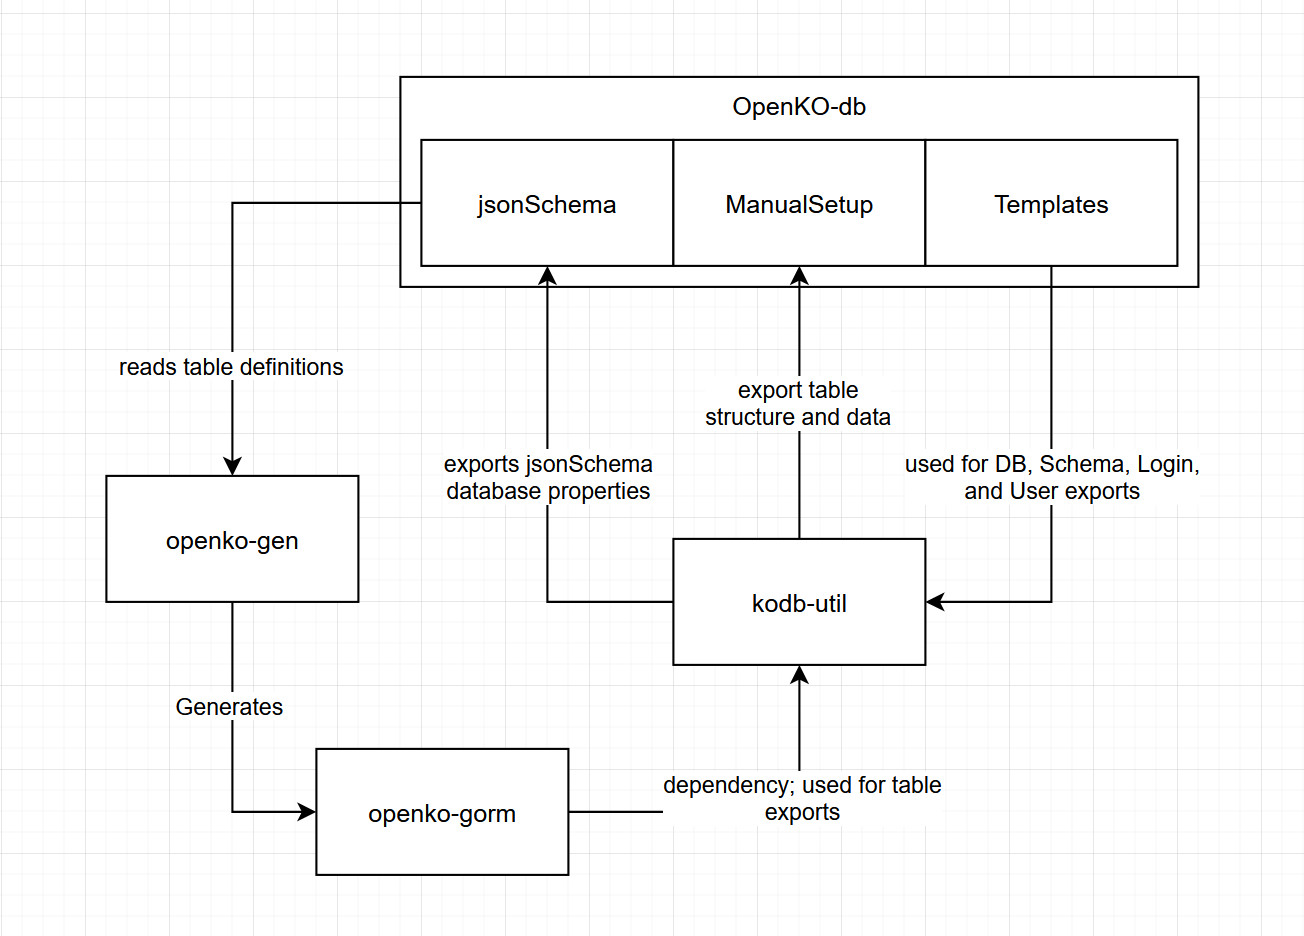
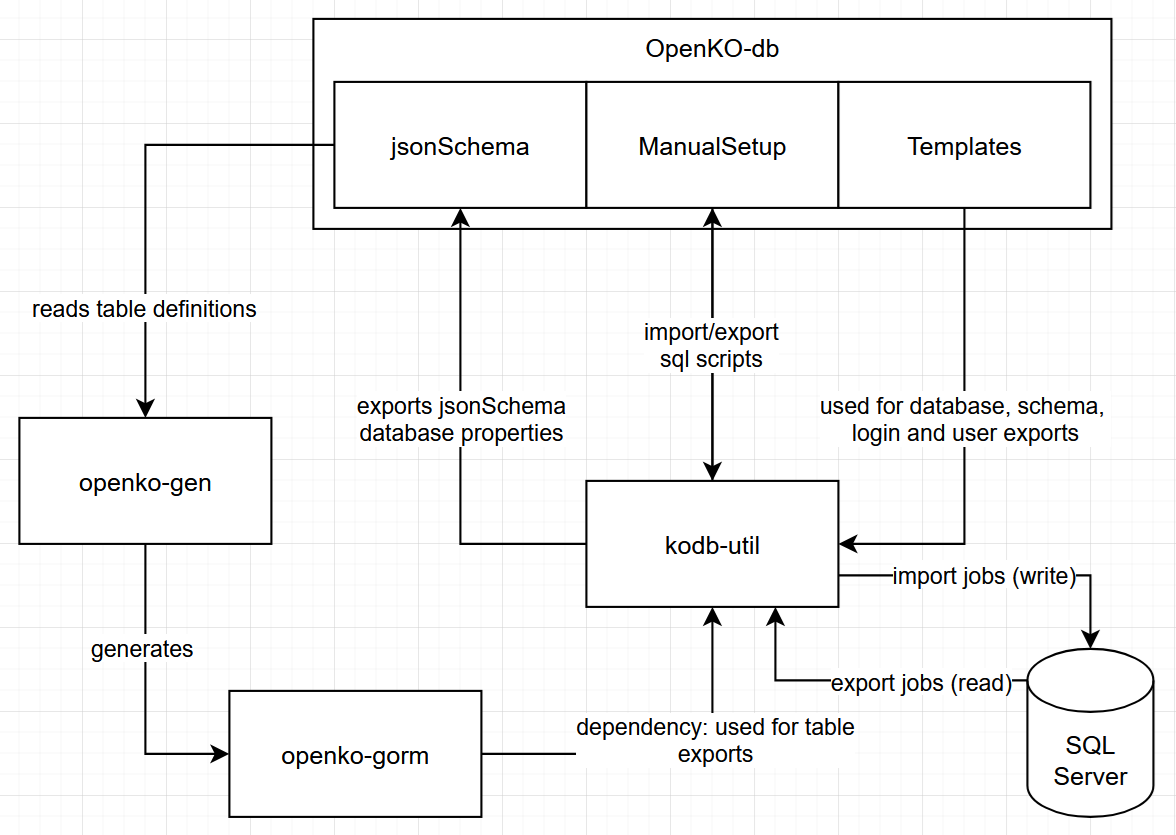
feature/#1 update module configuration for new repo and update tooling diagram

diff --git a/jsonSchema/tableDef.go b/jsonSchema/tableDef.go
@@ -2,8 +2,8 @@ package jsonSchema
 
 import (
 	"fmt"
-	"github.com/kenner2/OpenKO-db/jsonSchema/enums/dbType"
-	"github.com/kenner2/OpenKO-db/jsonSchema/enums/tsql"
+	"github.com/Open-KO/OpenKO-db/jsonSchema/enums/dbType"
+	"github.com/Open-KO/OpenKO-db/jsonSchema/enums/tsql"
 )
 
 // READ BEFORE MODIFYING:
